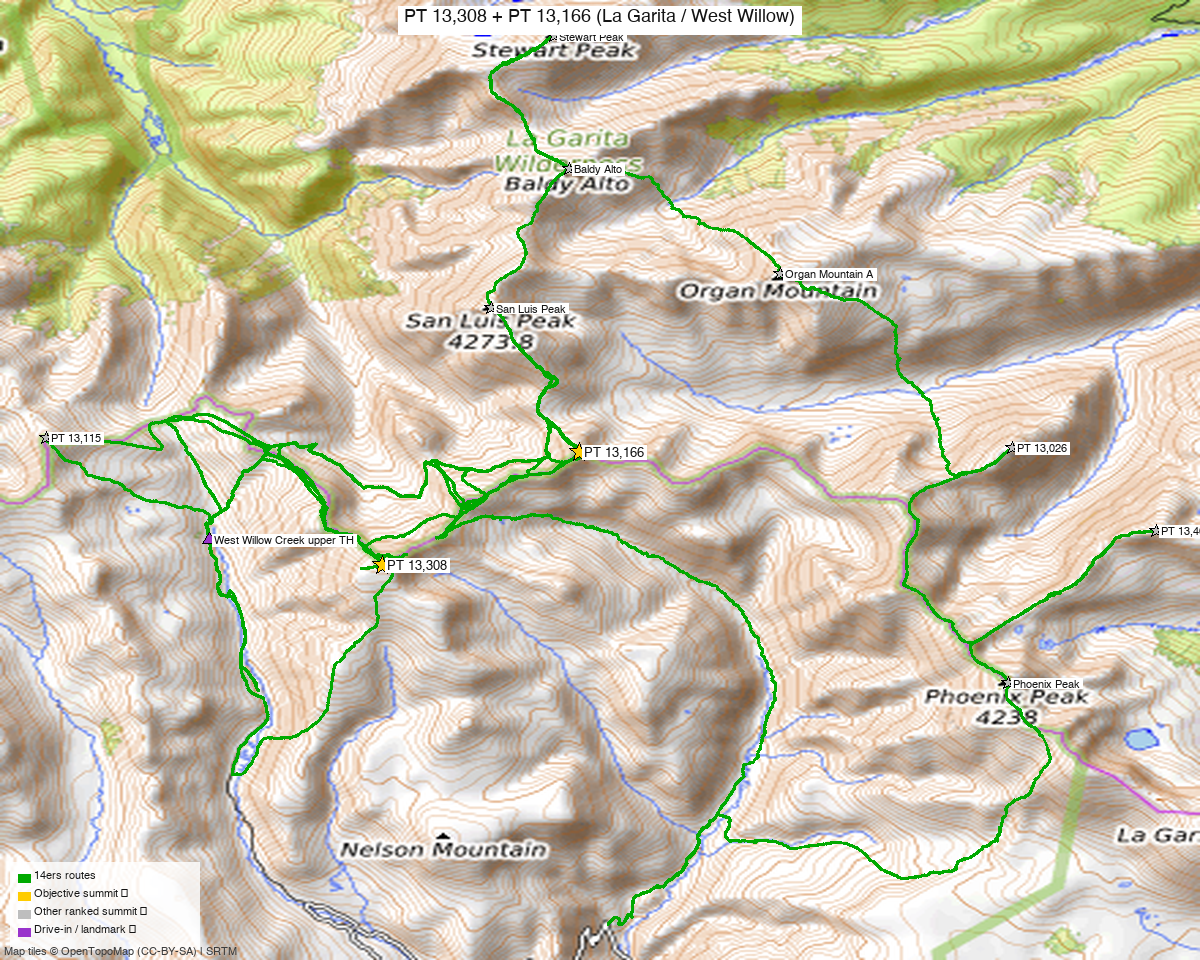
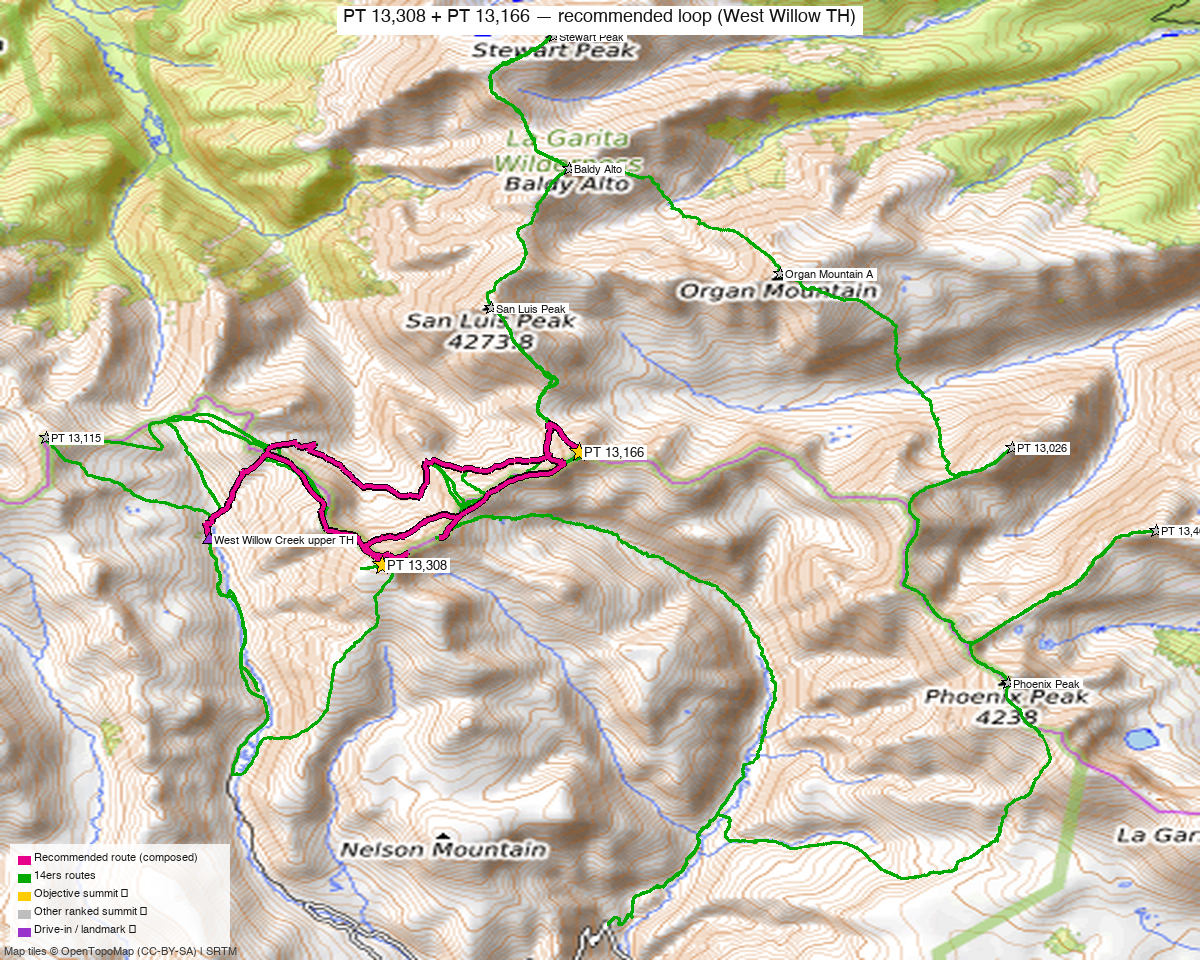
Add West Willow La Garita 2-day trip; finish bridge-pair recommended route
The Baldy Lejos trio and the PT 13,308 + 13,166 bridge pair share the West
Willow Creek upper TH, so they're now a trip rather than two loose day pages.

- docs/trips/west_willow_la_garita.md (new): 5 ranked 13ers over 2 days from
  one TH — trio day (~12 mi/3,600') + bridge-pair day (~11.8 mi/4,200'), plus
  an all-5-in-one-push option (~25 mi/8,400', strong parties only). Overview map
  shows both magenta day-loops radiating from the shared camp. Added to nav.
- pt_13308_13166: built its DEM recommended loop (11.8 mi/4,200'), embedded the
  magenta map, refreshed frontmatter/headline, pushed the route to CalTopo 9VGDUR3.
- Cross-linked both day-reports to the trip; regenerated index.
- gpx/west_willow_la_garita/peaks.yml tracks the combined 5-peak slug.

diff --git a/docs/trips/west_willow_la_garita.md b/docs/trips/west_willow_la_garita.md
@@ -1,0 +1,110 @@
+---
+image: maps/west_willow_la_garita.png
+range: San Juan
+drive_time: "~5 h to Creede + rough 4WD"
+yds_class: "3"
+gain: "~24 mi / ~7,800 ft over 2 days · ~25 mi / ~8,400 ft if linked in one push"
+status: unclimbed
+regional_map_id: 06AR6BF
+---
+
+# West Willow Creek — 5 La Garita 13ers from San Luis Pass (2-Day)
+
+**Researched:** 2026-06-10
+**Report type:** Multi-day trip / backpack — 5 ranked 13ers over 2 days from one trailhead
+**Status in DB:** all five unclimbed.
+
+> Consolidates two day-reports that **launch from the same West Willow Creek upper TH** above Creede: the **[Baldy Lejos trio](../peaks/baldy_lejos_trio.md)** (Baldy Lejos + PT 13,115 + PT 13,030) and the **[PT 13,308 + PT 13,166 bridge pair](../peaks/pt_13308_13166.md)**. One trailhead, one camp — two ~12-mile day-loops, or one big push. (The eastern [PT 13,408 + 13,026 pair](../peaks/pt_13026_13408.md) is *not* part of this — it's a separate Cochetopa/Eddiesville trailhead, a different drive.)
+
+![Overview map](../maps/west_willow_la_garita.png)
+*Five ranked 13ers around one **West Willow Creek upper TH** (orange). The two **magenta day-loops** are the recommended routes — the trio to the NW, the bridge pair to the E/SE — each radiating from the same camp. Per-area route detail + interactive maps: [trio (4278RCG)](https://caltopo.com/m/4278RCG) · [bridge pair (9VGDUR3)](https://caltopo.com/m/9VGDUR3).*
+
+---
+
+<!-- CLIMBERS_START -->
+**Other climbers:** Emily Sharpe — not yet · Shawn D Keil — not yet
+<!-- CLIMBERS_END -->
+
+## Trip stats
+
+| | |
+|---|---|
+| Days | **2** (camp high near the upper TH / San Luis Pass) |
+| Peaks | **5 ranked 13ers** — all unclimbed |
+| Class | **2**, with one **Class 3** move on PT 13,166 |
+| **Day — trio** | Baldy Lejos + PT 13,115 + PT 13,030 — **~12 mi / ~3,600'** (DEM) |
+| **Day — bridge pair** | PT 13,308 + PT 13,166 — **~11.8 mi / ~4,200'** (DEM) |
+| **2-day total** | **~24 mi / ~7,800'** |
+| **Big-day option (all 5)** | **~25 mi / ~8,400'** — strong parties only (see below) |
+| Trailhead | **West Willow Creek upper TH (~11,500', 4WD — road status not guaranteed)** |
+| Drive from Boulder | **~5 h to Creede**, then the rough West Willow Creek 4WD road |
+| Land | **La Garita Wilderness** (Rio Grande / GMUG NF) — no permits/fees, foot-only beyond the TH, **dispersed/backpack camping allowed** |
+
+All distances/gains are **DEM-measured from real recorded GPX** (`build_recommended_route.py`), not estimates.
+
+---
+
+## Why 2 days from one camp
+
+All five share the **West Willow Creek upper TH** (~11,500', up the rough road from Creede). They fall into **two natural loops that only meet along the high divide**:
+
+- **The trio** (Baldy Lejos, PT 13,115, PT 13,030) sits **NW** of the TH — a ~12 mi Class 2 tundra loop.
+- **The bridge pair** (PT 13,308, PT 13,166) sits **E/SE** of the TH — a ~11.8 mi loop with a **Class 3** move on PT 13,166.
+
+Camp high near the upper TH (or up toward San Luis Pass) and do **one loop each day**. Order is flexible — **save PT 13,166's Class 3 for the more stable-weather day.**
+
+> **Doing all five in one push is ~25 mi / ~8,400'** — barely shorter than the two days combined, because the trio and the pair only connect along the divide (linking them adds traverse miles without saving a trailhead return). It's a legitimate ultra-day for a very strong party, but the **2-day split is the sane recommendation**.
+
+---
+
+## Day plan
+
+### Trio day — Baldy Lejos + PT 13,115 + PT 13,030 · ~12 mi / ~3,600' · Class 2
+A rolling tundra loop NW of camp: up onto the divide, north to **Baldy Lejos (13,118')**, back south over **PT 13,115**, then **PT 13,030**, and down. Benign Class 2 — the day is length + altitude, not difficulty. **Full route, trip reports, and GPX: [Baldy Lejos trio report](../peaks/baldy_lejos_trio.md).**
+
+### Bridge-pair day — PT 13,308 + PT 13,166 · ~11.8 mi / ~4,200' · Class 2 (Class 3 on 13,166)
+E/SE of camp: a loop tagging **PT 13,308** and **PT 13,166**, the latter carrying a **Class 3** move — do it in good weather and dry rock. More gain than the trio for similar mileage. **Full route, trip reports, and GPX: [PT 13,308 + 13,166 report](../peaks/pt_13308_13166.md).**
+
+---
+
+## Drive + approach (shared)
+
+| | |
+|---|---|
+| **Drive from Boulder** | **[~5 h to Creede via Google Maps](https://www.google.com/maps/dir/?api=1&origin=1162+Peakview+Circle,+Boulder,+CO+80302&destination=37.84913,-106.92766)**, then up Willow Creek. |
+| Access | From Creede, up **Willow Creek Rd (FR 503)**; ¾ mi above town bear onto **West Willow Creek Rd** and climb toward San Luis Pass. 2WD ends near the **Equity Mine (~6.7 mi up)**; the 4WD continuation to the ~11,500' upper TH has been **FS-gated in recent years — confirm it's open**, or expect to walk (and add miles) from lower. |
+| Trailhead | **West Willow Creek upper TH**, ~37.955, −106.967, **~11,500'**. |
+
+> **You do not drive to San Luis Pass** — that's a hiking destination; the TH is named for the trail that starts there.
+
+---
+
+## Camp
+
+- **La Garita Wilderness** — dispersed/backpack camping allowed beyond the TH (foot travel only). Camp near the **upper TH** or up toward **San Luis Pass** to sit central between the two loops.
+- High and exposed; water from the upper West Willow / basin creeks (treat).
+
+---
+
+## Conditions / season
+
+- **Best window:** **July–September.** High, remote La Garita; the West Willow road and upper basins open late.
+- **Terrain:** rolling alpine tundra Class 2; **one Class 3 move on PT 13,166** — wants dry rock.
+- **Storms:** wide-open tundra, no fast escape — start early both days, watch the sky.
+
+---
+
+## Cell coverage
+
+- **Dead.** Deep in the La Garita; no reception at the TH or on the peaks. Carry an **InReach / satellite messenger**.
+
+---
+
+## TL;DR
+
+- **Five ranked La Garita 13ers from one West Willow upper TH**, best as a **2-day backpack** (~24 mi / ~7,800'): a Class 2 trio day NW + a Class 2/3 pair day E/SE, camping high near San Luis Pass.
+- **All five in a day is ~25 mi / ~8,400'** — strong parties only; the two loops only meet on the divide, so linking them barely saves distance.
+- **Crux is the road** (4WD to ~11,500', sometimes gated) and **PT 13,166's Class 3**, not the tundra.
+- Detail + GPX: **[trio](../peaks/baldy_lejos_trio.md)** · **[bridge pair](../peaks/pt_13308_13166.md)**. Eastern [13,408 + 13,026 pair](../peaks/pt_13026_13408.md) is a *separate* Cochetopa trip.
+
+**Sources checked:** 14ers.com ✓ (logged in, "letsgocu") · listsofjohn.com ✓ (logged in) · peakbagger.com ✓ (logged in) · climb13ers.com ✓ — synthesized from the two underlying day-reports.

diff --git a/docs/peaks/pt_13308_13166.md b/docs/peaks/pt_13308_13166.md
@@ -3,7 +3,7 @@ image: maps/pt_13308_13166.png
 range: San Juan
 drive_time: "~5 h to Creede + rough 4WD"
 yds_class: "2"
-gain: "~3,700–5,000 ft (pair from West Willow upper TH)"
+gain: "~11.8 mi / ~4,200 ft (recommended loop, DEM) · Class 3 on 13,166"
 status: unclimbed
 caltopo_id: 9VGDUR3
 regional_map_id: 06AR6BF
@@ -16,10 +16,12 @@ regional_map_id: 06AR6BF
 **CalTopo research map:** https://caltopo.com/m/9VGDUR3
 **Status in DB:** both unclimbed.
 
-> Split out of the former "Phoenix Park Four" — those four don't share a trailhead or a sane day. **This pair goes with the [Baldy Lejos trio](baldy_lejos_trio.md)** (same West Willow TH); the eastern pair is a [separate report](pt_13026_13408.md).
+> Split out of the former "Phoenix Park Four" — those four don't share a trailhead or a sane day. **This pair goes with the [Baldy Lejos trio](baldy_lejos_trio.md)** (same West Willow TH) as the **[West Willow La Garita 2-day trip](../trips/west_willow_la_garita.md)**; the eastern pair is a [separate report](pt_13026_13408.md).
 
 ![Overview map](../maps/pt_13308_13166.png)
-*[Interactive CalTopo map](https://caltopo.com/m/9VGDUR3)* — source GPX tracks (14ers library), layered by source; 2 summit markers.
+*[Interactive CalTopo map](https://caltopo.com/m/9VGDUR3)* — source GPX tracks (14ers library) in green, with the **recommended composed loop in bold magenta**; 2 summit markers + the West Willow upper TH.
+
+> Part of the **[West Willow La Garita 2-day trip](../trips/west_willow_la_garita.md)** — same trailhead as the [Baldy Lejos trio](baldy_lejos_trio.md).*
 
 ---
 
@@ -48,13 +50,17 @@ The two are **~1.7 mi apart** along the divide, both Class 2 tundra/chiprock.
 
 ## Recommended day — West Willow Creek upper TH ⭐
 
-These are the **western, "bridge" peaks** of the La Garita cluster — closest to the Baldy Lejos trio and reachable from the **same West Willow Creek upper TH** (near San Luis Pass, ~11,500' with full 4WD). Recorded tracks run **~8–12 mi / ~3,700–5,000'** for the pair (high start keeps the gain modest).
+These are the **eastern, "bridge" peaks** of the La Garita cluster — reachable from the **same West Willow Creek upper TH** (near San Luis Pass, ~11,500' with full 4WD) as the Baldy Lejos trio.
 
 | | |
 |---|---|
 | Peaks | PT 13,308 + PT 13,166 |
-| Est. day | **~8–12 mi / ~3,700–5,000', Class 2** |
+| **Recommended loop (composed)** | **~11.8 mi / ~4,200'** — real-GPS loop from the West Willow TH out to the pair and back (`build_recommended_route.py`); gain DEM-measured |
+| Class | **2**, with a **Class 3** move on PT 13,166 |
 | Trailhead | **West Willow Creek upper TH (~11,500')** — the Baldy Lejos trio's trailhead |
+
+![Recommended composed loop](../maps/pt_13308_13166.png)
+*The **recommended route (bold magenta)** — a ~11.8 mi / ~4,200' loop from the West Willow upper TH out to PT 13,166 and PT 13,308 and back, taken from real recorded GPS (gain DEM-measured). Pair it with the trio over two days: the **[West Willow La Garita 2-day trip](../trips/west_willow_la_garita.md)**.*
 
 ### How they're climbed
 - **PT 13,308** has been tagged on longer West Willow days with the [Baldy Lejos trio](baldy_lejos_trio.md) (LoJ TRs [24545](https://listsofjohn.com/tr?Id=24545) / [5946](https://listsofjohn.com/tr?Id=5946)).
@@ -100,7 +106,7 @@ These are the **western, "bridge" peaks** of the La Garita cluster — closest t
 ## TL;DR
 
 - **Two ranked La Garita 13ers (Class 2)** ~1.7 mi apart — the western "bridge" pair, **best paired with the [Baldy Lejos trio](baldy_lejos_trio.md)** from the same **West Willow Creek upper TH**.
-- **~8–12 mi / ~3,700–5,000'** for the pair (high 4WD start). A strong party can link all five (trio + this pair) in one West Willow day.
+- **~11.8 mi / ~4,200'** recommended loop for the pair (DEM gain), Class 2 with a **Class 3** move on PT 13,166. Best done as the **[West Willow La Garita 2-day trip](../trips/west_willow_la_garita.md)** with the trio (or all five in one ~25 mi push).
 - **La Garita Wilderness**, Creede access, rough 4WD; cell dead — InReach.
 - **Split from the old "Phoenix Park Four"** because those four don't share a trailhead — the [eastern pair (13,026 + 13,408)](pt_13026_13408.md) is its own report.
 - **Research map:** https://caltopo.com/m/9VGDUR3

diff --git a/docs/index.md b/docs/index.md
@@ -31,7 +31,7 @@ auto-generated from each report's frontmatter (`scripts/gen_index.py`).*
 | [Pearl Mountain + Oyster Peak](peaks/pearl_oyster.md) | Elk | 4h 22m | 2+ | ~4,300 ft | unclimbed |
 | [PT 13,557](peaks/pt_13557.md) | Sangre de Cristo | 4h 41m | 2 | ~3,540 ft | unclimbed |
 | ["Baldy Lejos" + PT 13,115 + PT 13,030](peaks/baldy_lejos_trio.md) | San Juan | ~5 h to Creede + rough 4WD | 2 | ~12 mi / ~3,600 ft (recommended loop, DEM) · 16–20 mi recorded | unclimbed |
-| [PT 13,308 + PT 13,166](peaks/pt_13308_13166.md) | San Juan | ~5 h to Creede + rough 4WD | 2 | ~3,700–5,000 ft (pair from West Willow upper TH) | unclimbed |
+| [PT 13,308 + PT 13,166](peaks/pt_13308_13166.md) | San Juan | ~5 h to Creede + rough 4WD | 2 | ~11.8 mi / ~4,200 ft (recommended loop, DEM) · Class 3 on 13,166 | unclimbed |
 | [PT 13,155 Group](peaks/pt_13155_group.md) | San Juan | 5h 34m | 2 | 3,000–4,000 ft | unclimbed |
 | [Cuba Gulch Trio](peaks/cuba_gulch_trio.md) | San Juan | 5h 52m | 2 | ~3,900 ft (clean trio) | unclimbed |
 | [PT 13,408 + PT 13,026](peaks/pt_13026_13408.md) | San Juan | ~5–6 h (Cochetopa / Gunnison side) | 2 | ~16 mi / ~5,000 ft (recommended loop, Eddiesville TH, DEM) | unclimbed |

diff --git a/docs/peaks/baldy_lejos_trio.md b/docs/peaks/baldy_lejos_trio.md
@@ -128,5 +128,5 @@ Pages verified for all three; **ownership = La Garita Wilderness** (GMUG / Rio G
 - **Trailhead:** West Willow Creek upper TH (~11,500'), up the rough road from Creede (¾ mi above town the road forks E/W Willow — take West Willow).
 - **La Garita Wilderness** — no permits, foot-only, dispersed camping OK.
 - **Drive:** ~5 h Boulder→Creede, then the 4WD road. Cell dead — InReach.
-- **Pairs naturally with the [13,308 + 13,166 bridge pair](pt_13308_13166.md)** from this same West Willow TH (a strong party can link all five); the [13,026 + 13,408 pair](pt_13026_13408.md) is a separate Cochetopa-side trip.
+- **Pairs naturally with the [13,308 + 13,166 bridge pair](pt_13308_13166.md)** from this same West Willow TH — together they're the **[West Willow La Garita 2-day trip](../trips/west_willow_la_garita.md)** (a strong party can link all five in one ~25 mi day); the [13,026 + 13,408 pair](pt_13026_13408.md) is a separate Cochetopa-side trip.
 - **Research map:** https://caltopo.com/m/4278RCG